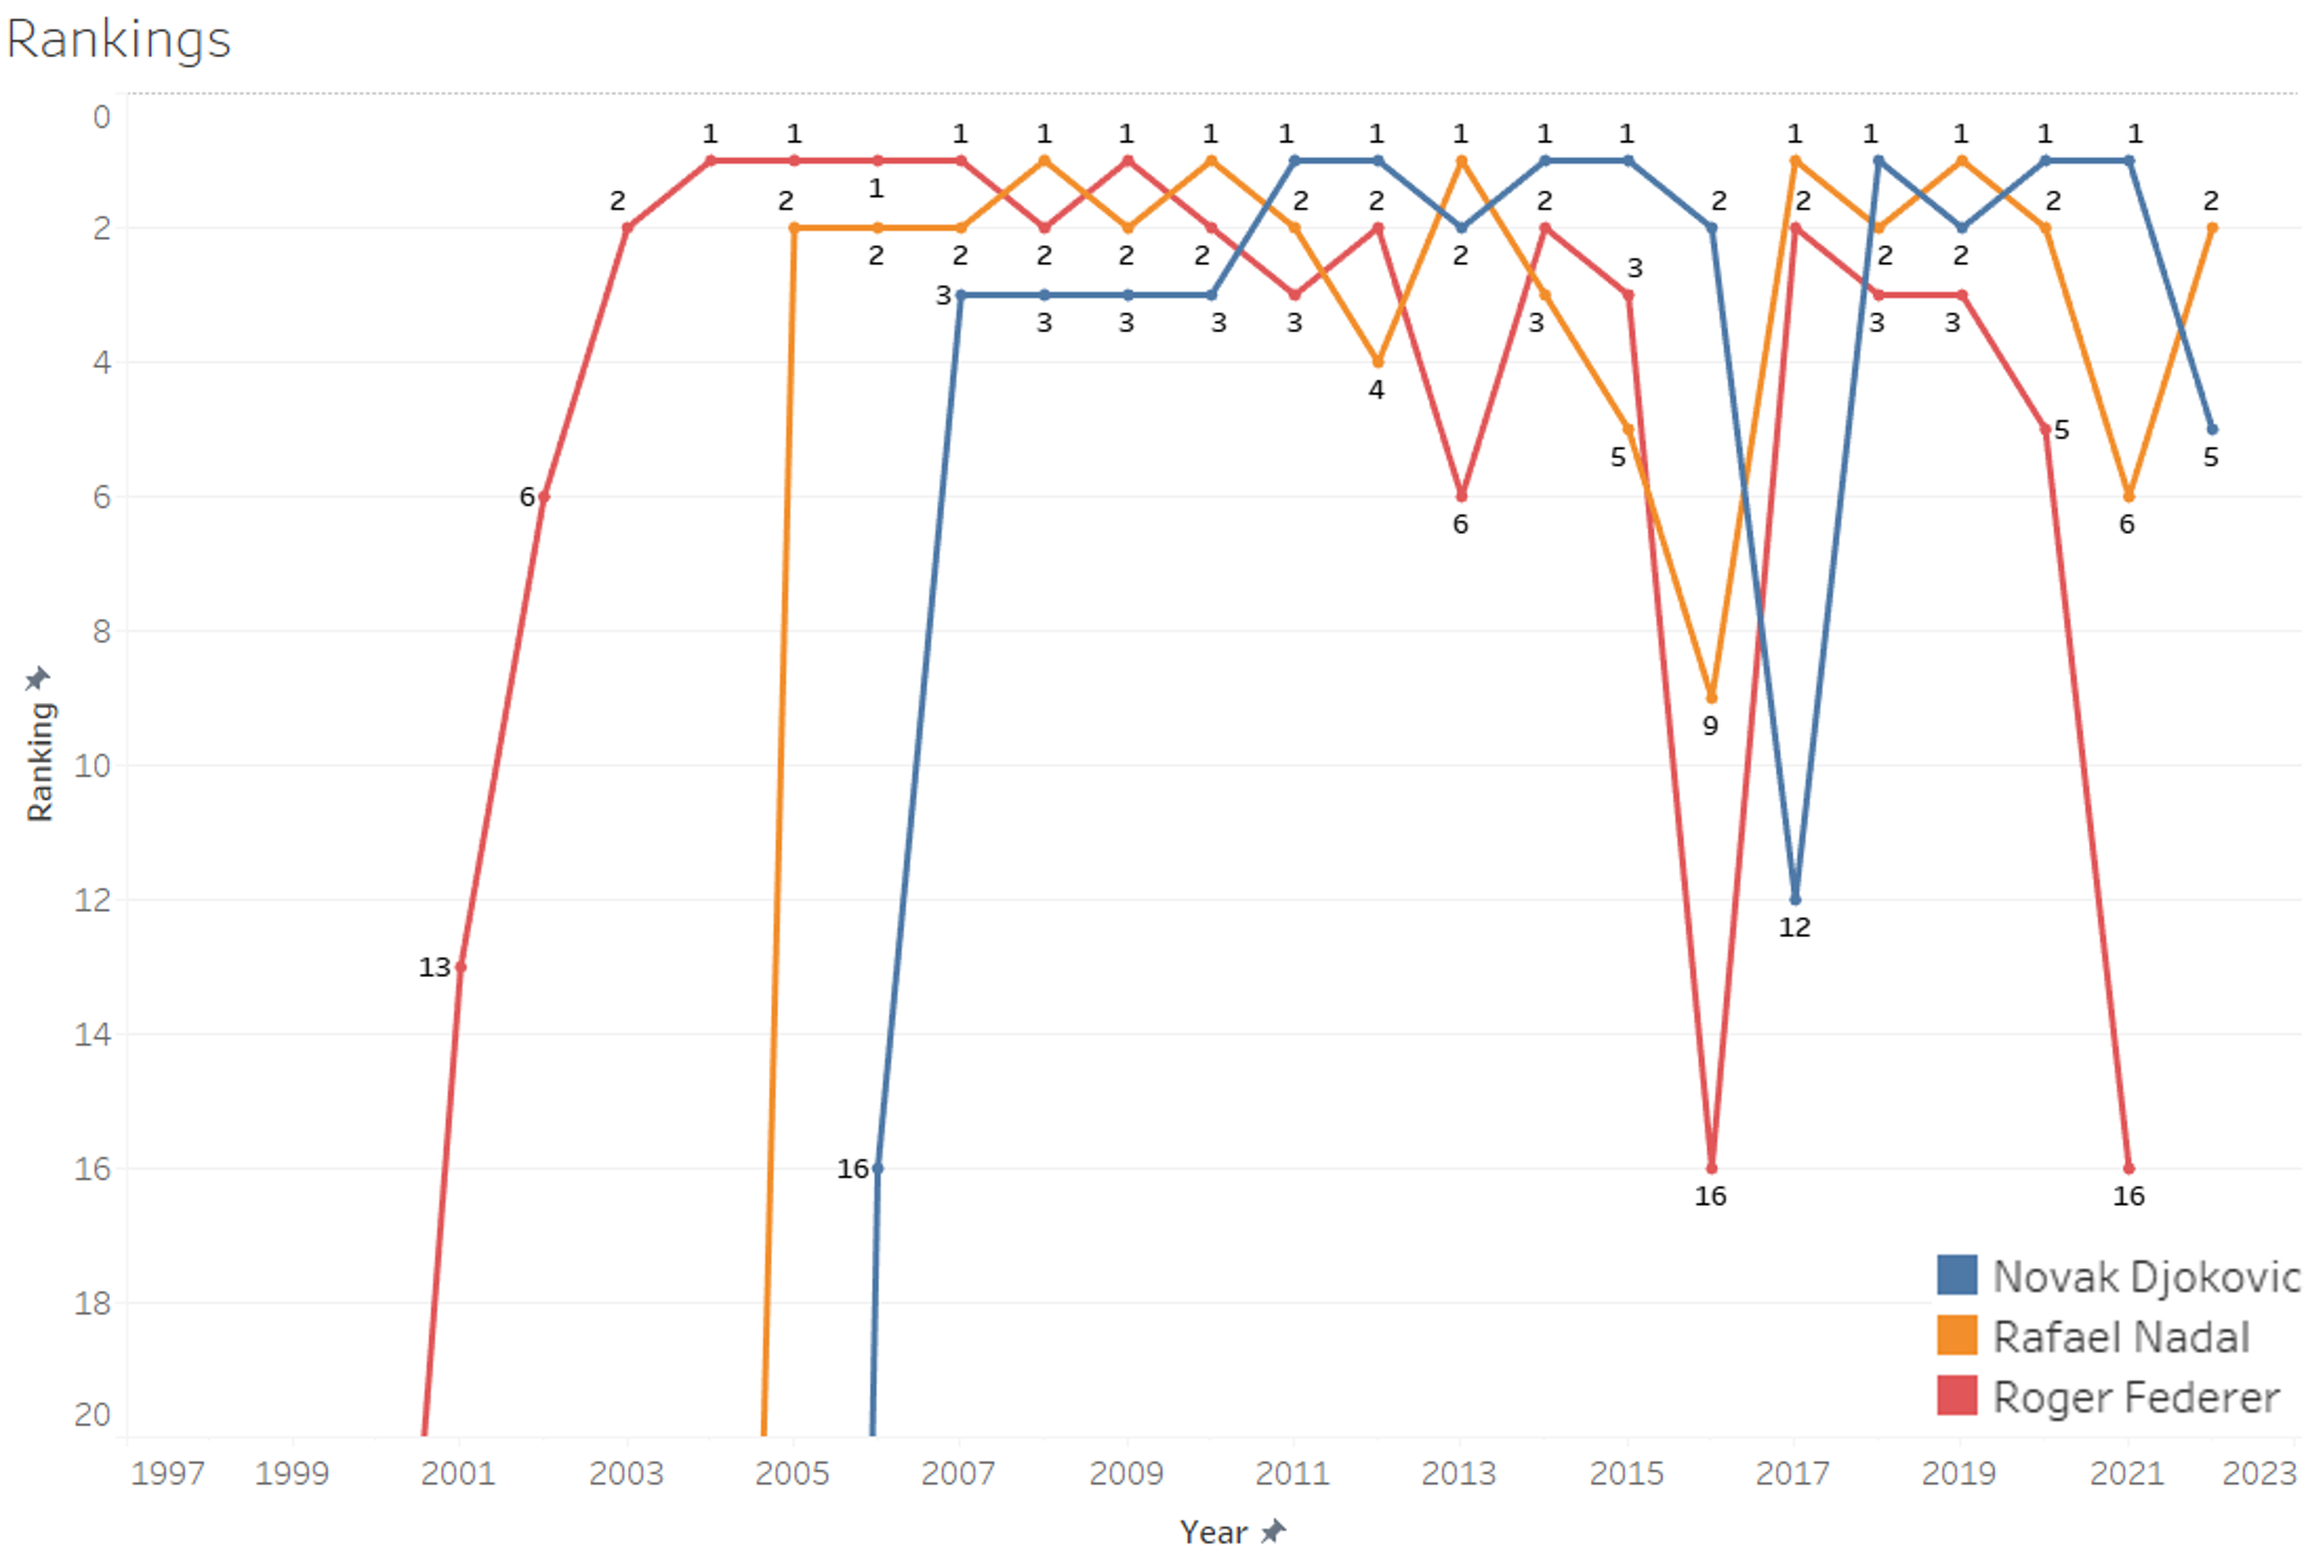
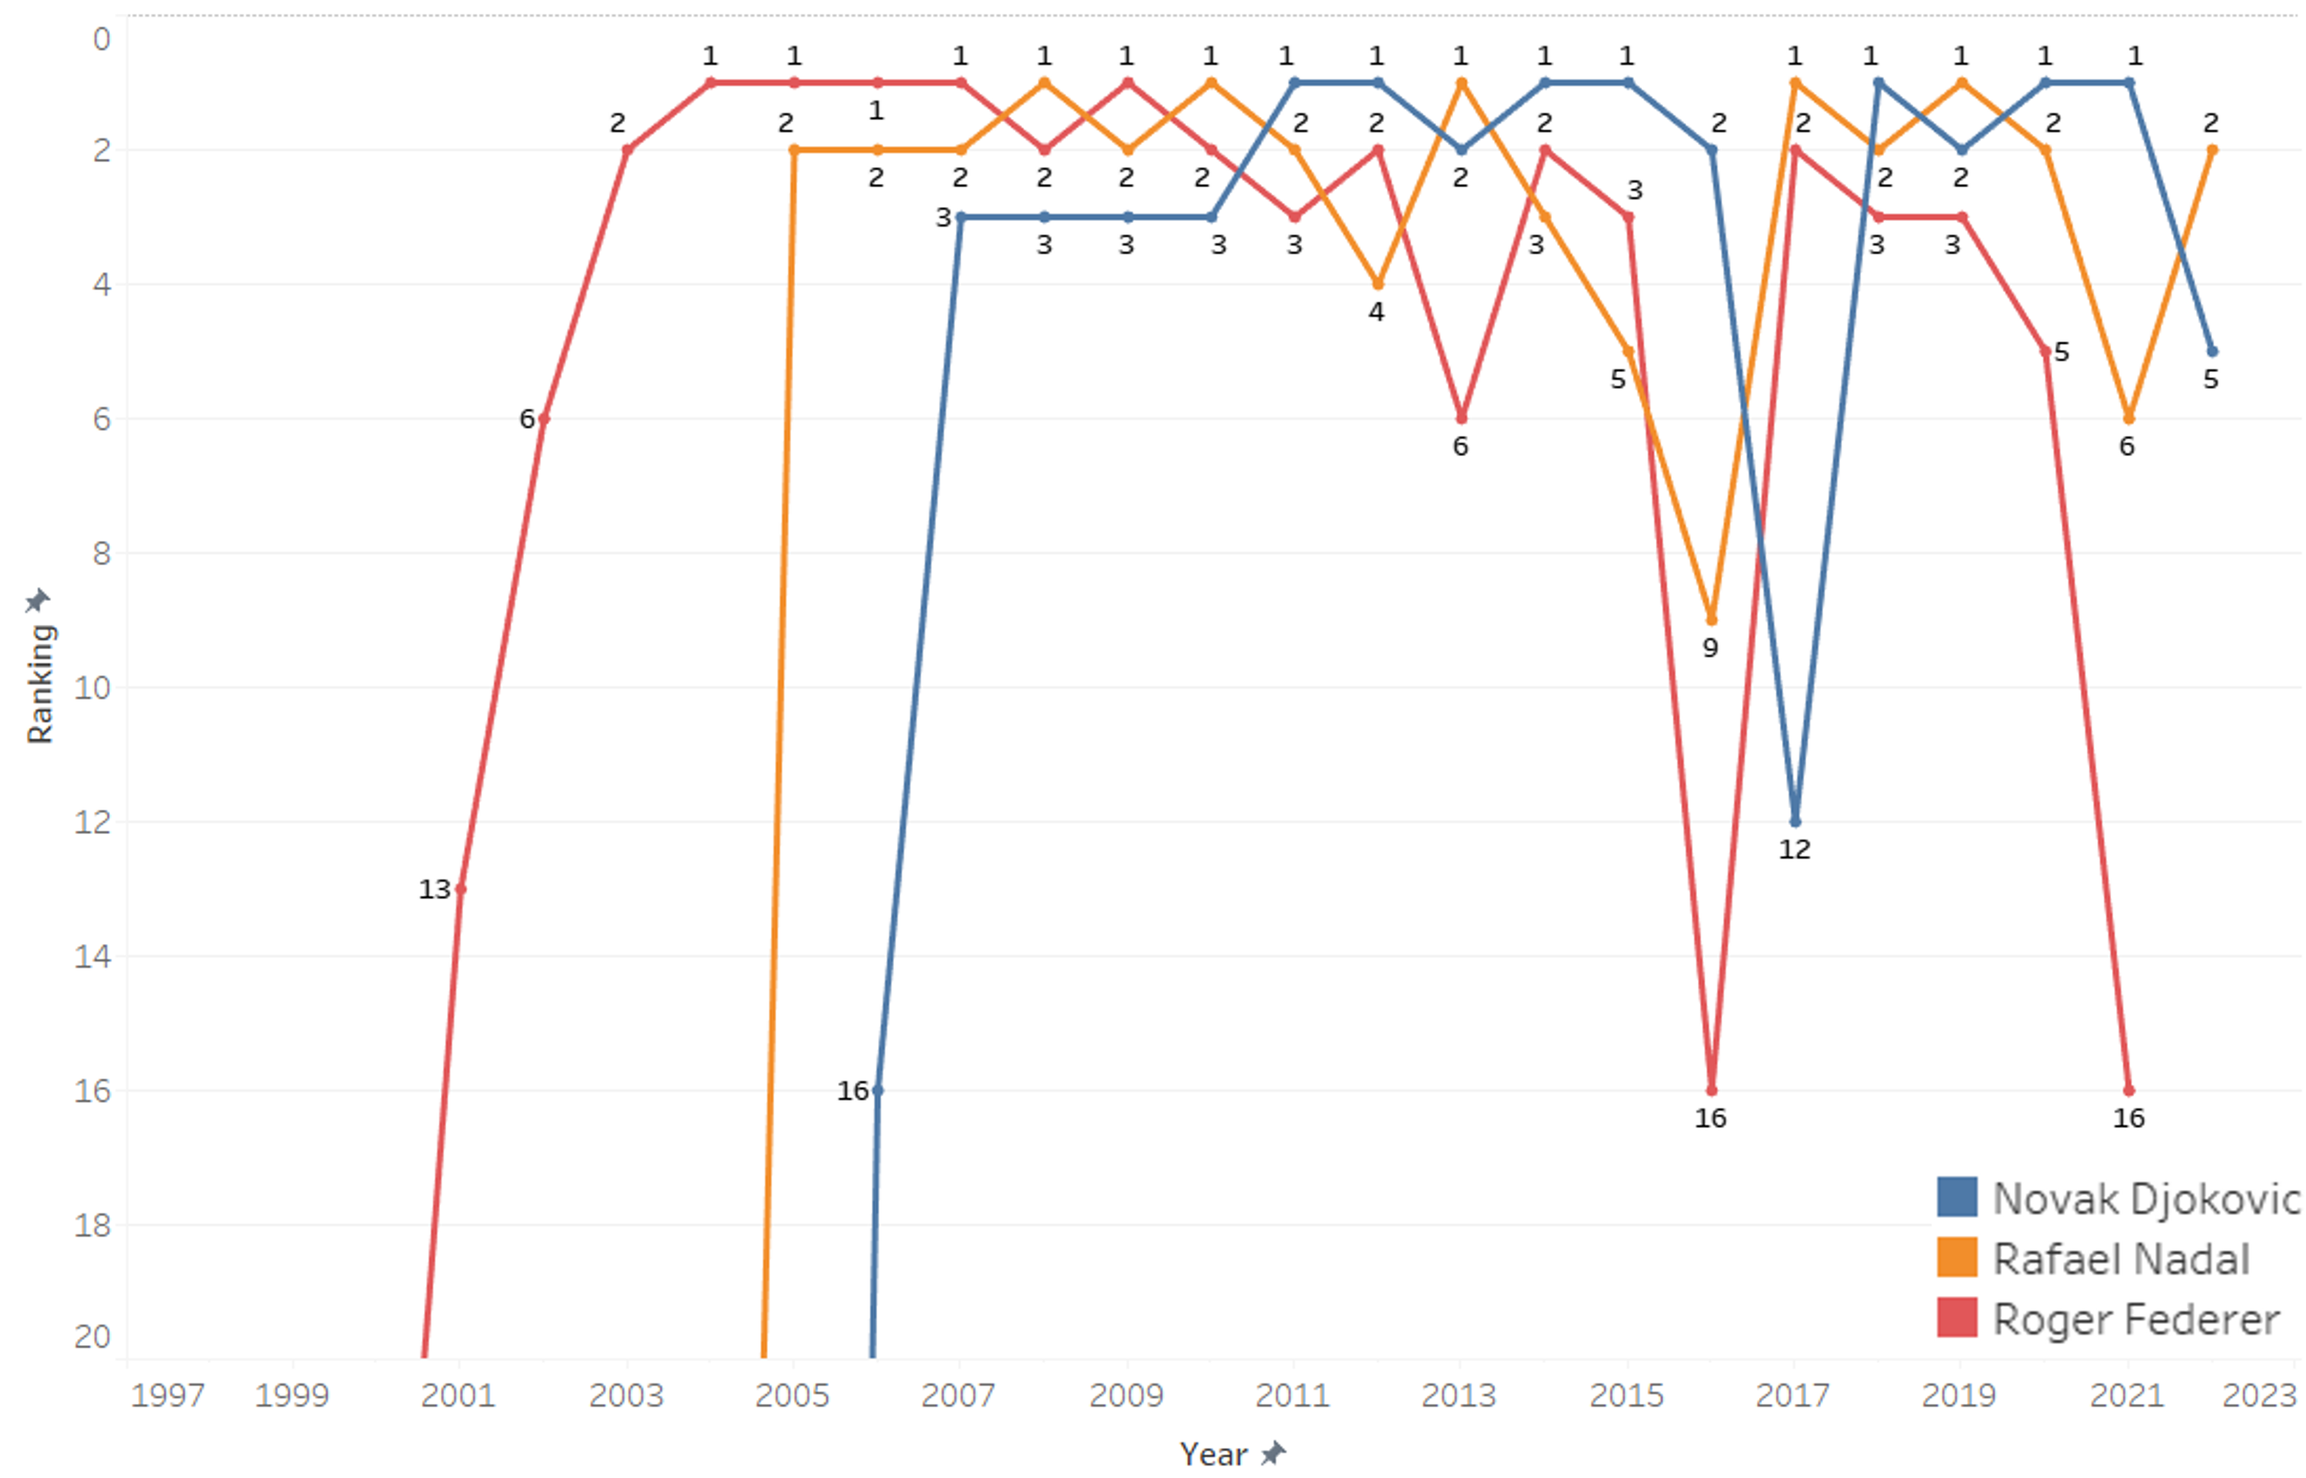
feat: q2 titles

diff --git a/README.md b/README.md
@@ -12,8 +12,8 @@
 - [Methodology](README.md#methodology)
 - [Tools](README.md#tools)
 - [Q1: How did Federer, Nadal and Djokovic moved in the rankings throughout the years?](README.md#q1-how-did-federer-nadal-and-djokovic-moved-in-the-rankings-throughout-the-years)
-- [Q2: Best single season of the big three](README.md#q2-best-single-season-of-the-big-three)
-- [Q3: Titles breakdown](README.md#q3-titles-breakdown)
+- [Q2: Titles breakdown](README.md#q3-titles-breakdown)
+- [Q3: Best single season of the big three](README.md#q2-best-single-season-of-the-big-three)
 - [Q4: Who has a better serve?](README.md#q4-who-has-better-serve)
 - [Q5: Who performs better under preasure?](README.md#q5-who-performs-better-under-preasure)
 - [Final Thoughts](README.md#final-thoughts)
@@ -71,7 +71,7 @@ The ATP (Association of Tennis Professionals) Ranking is the system used by the 
 
 On the following visualization we are able to see how Roger, Rafael and Novak moved in the ATP ranking throughout their careers.
 
-<img src="images\q1_ranking.png" alt="Ranking" width="1000"/> 
+<img src="images\q1_ranking.png" alt="Ranking" width="900"/> 
 
 As we can see, since 2004 these 3 players have dominated the ATP ranking. On the image above I am showing the end year ranking as the goal to every tennis player is finish the year at the top of the rankings, meaning there was no other player better than them in the season. Federer has finished 5 year-end no. 1 (2004, 2005, 2006, 2007, 2009), Nadal has 5 (2008, 2010, 2013, 2017, 2019) and Djokovic has the record with 7 (2011, 2012, 2014, 2015, 2018, 2020, 2021). Only 2 years since 2004 other tennis player apart from the big three have finished the year as no. 1, in 2016 Andy Murray and in 2022 Carlos Alcaraz.
 
@@ -81,14 +81,31 @@ Moreover, in the following table we can appreciate even more the dominance of th
 <img src="images\q1_weeks.png" alt="Weeks as no. 1" width="400"/>
 </p>
 
-<br> <br>
+<br>
 
-## Q2: BEST SINGLE SEASON OF THE BIG THREE
-Write here
+## Q2: TITLES BREAKDOWN
+Winning an ATP tournament is the greatest accomplishment when entering to the professional level in tennis, winning tournaments mean more points for the ranking system and more money earned. Tournaments in the ATP circuit are divided by level:
+- Grand Slam: 4 tournam-ents per year. This type of events gives the most money and the most points, the winner wins 2000 ATP points. 
+- Master Finals: 1 tournament per year and only the best 8 players throughout the year can enter. This tournament gives 1500 ATP points to the winner. 
+- Master 1000: 9 tournaments per year. The winner gets 1000 ATP points. 
+- Event 500: 11 tournaments per year. The winner gets 500 ATP points. 
+- Event 250: 42 tournaments per year. The winner gets 250 ATP points. 
+
+On average a player outside the top 100 of the world plays around 20 – 30 tournaments in a year, as a player start earning more points and move up the rankings they can be more selected on which tournaments to play; a player inside the top 20 only plays on average 15 – 20 tournaments to be on a good shape and get the best results in the best tournaments of the year. 
+
+Here below we can see a line graph that represents the breakdown of the titles of the Big Three during their careers. 
+
+<img src="images\q3_titles_count.png" alt="Titles count through the years" width="900"/>
+
+As we observed, Roger Federer is the one with most titles among the 3, with 103, being the only active player that has surpassed the barrier of 100 titles won. In a single season Federer holds the record for a male player with most titles with 12 in the season of 2006. Novak Djokovik is in a close second with 94 titles and Nadal is last with 92. 
+
+As we mentioned Grand Slams tournaments are the most prestigious event in the year, the titles that all tennis players cherish the most. Since July of 2003 there has been 79 Gran Slams held, the Big Three has won 64 of them, in other words they have won 81% of the Grand Slams in the last 20 years. In the graph below we can see Federer has a total of 20, being more dominant in Wimbledon with 8 titles, Nadal and Djokovic are tight with 22, 14 titles for the Spaniard in Roland Garros and 10 titles for the Serbian in the Australian Open, those torunaments are their best performing Slams.
+
+<img src="images\q3_grand_slams_count.png.png" alt="Titles count through the years" width="900"/>
 
 <br>
 
-## Q3: TITLES BREAKDOWN
+## Q3: BEST SINGLE SEASON OF THE BIG THREE
 Write here
 
 <br>
